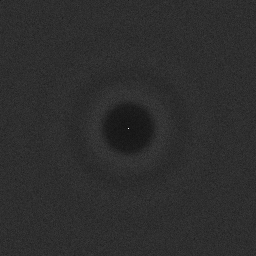
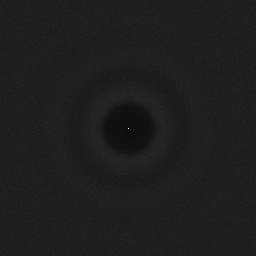
100 tests instead of 10. takes 3 minutes. much nicer!

diff --git a/main.cpp b/main.cpp
@@ -3,7 +3,7 @@
 static const size_t c_sampleCount = 1000;
 static const size_t c_imageSize = 256;
 static const size_t c_radialAverageBucketCount = 64;
-static const size_t c_numTestsForAveraging = 10; // TODO: 10 isn't enough!
+static const size_t c_numTestsForAveraging = 100;
 
 // Mitchel's best candidate blue noise settings
 static const size_t c_mitchelCandidateMultiplier = 1;
@@ -12,7 +12,7 @@ static const size_t c_mitchelCandidateMultiplier = 1;
 static const size_t c_progProjAccelSize = 10;
 static const size_t c_progProjCandidateMultiplier = 1; // TODO: need to search for a good value here
 
-#define DO_AVERAGE_TEST() false
+#define DO_AVERAGE_TEST() true
 #define RANDOMIZE_SEEDS() false
 
 
